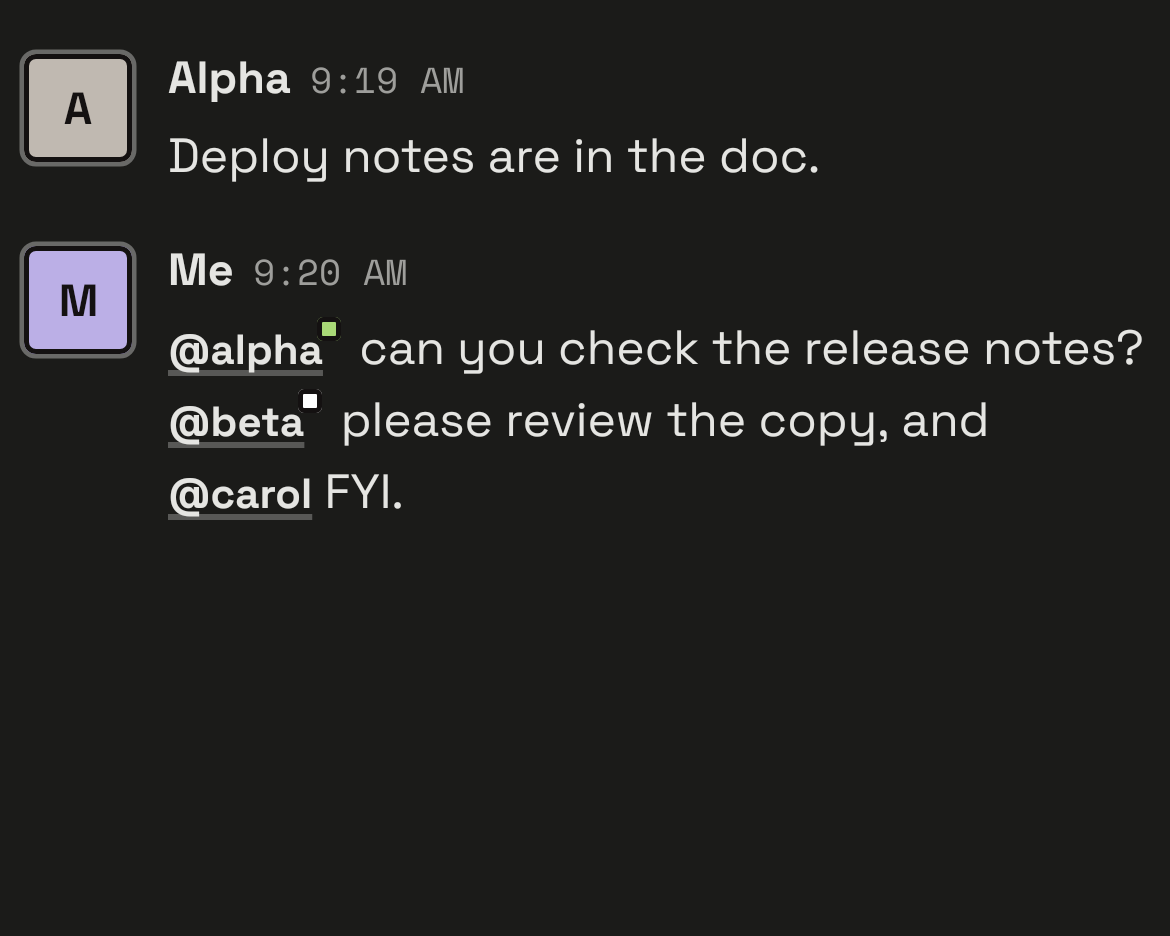
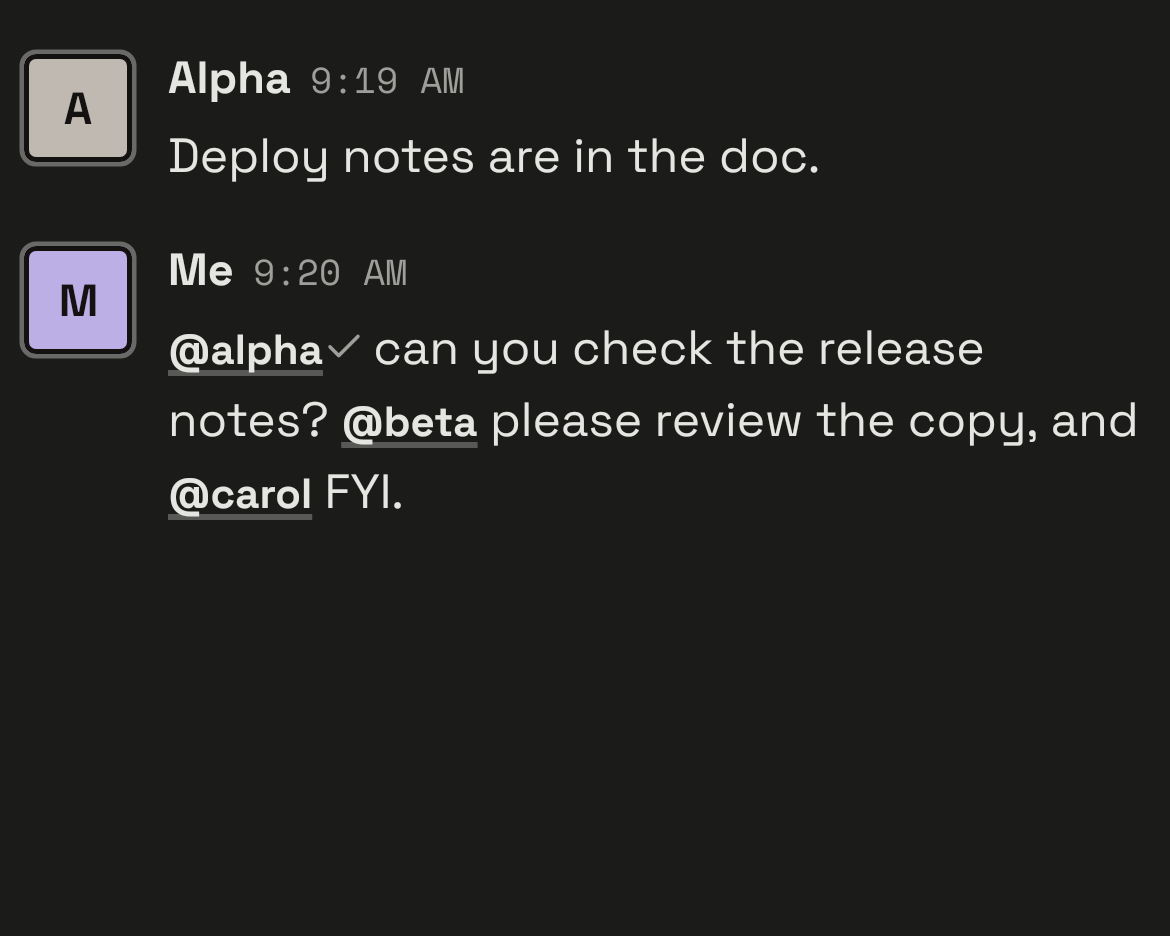
feat(thread): a read mention ends with raft-ui's check, not a lime square
The read receipt on an @agent mention (read_receipts_v0) is now raft-ui's
MessageReferenceReadMark (raft-design #715), as the web does since slock
#10924: a muted Lucide check right after the name once the agent has read
the message, and nothing while it hasn't. The square status light read as
"online" and is gone.

- compose/designsystem: RaftMessageReferenceReadMark and its inline-text
  form. The check is 0.857em of the mention (13.7dp beside the 16sp body),
  foreground-hint, centred on the cap height, its end trimmed by 2/24 so it
  has no space of its own; its box fits inside the line. Goldens
  message_reference_read_mark_{light,dark}, a semantics/size test, README
  row and the hover-card difference.
- compose/shared: the mention read badge uses it. Unread draws nothing and
  takes no width, but still says "Not read yet" to screen readers; read
  says "Read".
- Goldens thread.read-receipts.channel{,.dark} re-recorded. The DM "Read"
  line is unchanged.

Changed region(s): [[0.2769, 0.3408, 0.9846, 0.4028], [0.1231, 0.4028, 0.9846, 0.4957]]

diff --git a/compose/designsystem/src/commonMain/kotlin/build/raft/designsystem/components/RaftMessageReferenceReadMark.kt b/compose/designsystem/src/commonMain/kotlin/build/raft/designsystem/components/RaftMessageReferenceReadMark.kt
@@ -1,0 +1,130 @@
+package build.raft.designsystem.components
+
+import androidx.compose.foundation.Canvas
+import androidx.compose.foundation.layout.Box
+import androidx.compose.foundation.layout.fillMaxSize
+import androidx.compose.foundation.layout.size
+import androidx.compose.foundation.text.InlineTextContent
+import androidx.compose.foundation.text.appendInlineContent
+import androidx.compose.runtime.Composable
+import androidx.compose.ui.Modifier
+import androidx.compose.ui.geometry.Offset
+import androidx.compose.ui.graphics.Color
+import androidx.compose.ui.graphics.StrokeCap
+import androidx.compose.ui.graphics.StrokeJoin
+import androidx.compose.ui.graphics.drawscope.DrawScope
+import androidx.compose.ui.graphics.drawscope.Stroke
+import androidx.compose.ui.graphics.drawscope.scale
+import androidx.compose.ui.graphics.drawscope.translate
+import androidx.compose.ui.semantics.clearAndSetSemantics
+import androidx.compose.ui.semantics.contentDescription
+import androidx.compose.ui.text.AnnotatedString
+import androidx.compose.ui.text.Placeholder
+import androidx.compose.ui.text.PlaceholderVerticalAlign
+import androidx.compose.ui.unit.Dp
+import androidx.compose.ui.unit.dp
+import androidx.compose.ui.unit.em
+import build.raft.designsystem.theme.RaftTheme
+
+/**
+ * raft-ui `MessageReferenceReadMark` (wip, raft-design #715, message-item.md "Read receipts on a
+ * mention"): the read receipt on a mention of an agent. A muted Lucide `check` follows the name,
+ * last inside the mention, once the agent has read the message; until then nothing is drawn.
+ *
+ * - The check is the size of an icon in a reference: 12px beside 14px text, so 0.857em of the
+ *   mention (13.7dp beside the phone's 16sp body), in `foreground-hint`, Lucide's 2-unit stroke.
+ * - No space of its own after the name; its end takes back the extra 2/24 Lucide leaves inside the
+ *   check's box (`-mr-[calc(0.857em*2/24)]`), so the word space comes after it.
+ * - Centred on the letters' cap height (0.7em / 2 above the baseline), not raised like a
+ *   superscript; its box fits inside the line, so the line keeps its height.
+ * - Not a status light: the lime square read as "online" (raft-ui Status, presence lights).
+ *
+ * The check is decorative; [label] is what a screen reader says instead ("Read").
+ */
+object RaftMessageReferenceReadMarkDefaults {
+    /** The check's box, in ems of the mention (12 / 14). */
+    const val SizeEm: Float = 0.857f
+
+    /** The check's centre above the baseline: half the cap height (0.7em / 2). */
+    const val CenterAboveBaselineEm: Float = 0.35f
+
+    /** What the end takes back: Lucide draws the check 3/24 inside its box, other icons 1/24. */
+    const val EndTrimEm: Float = SizeEm * 2f / 24f
+
+    /** The box in a row of its own (`self-center`), beside 14px text. */
+    val Size: Dp = 12.dp
+
+    /** The placeholder in running text: the check's box less [EndTrimEm], sitting on the baseline. */
+    val Placeholder: Placeholder =
+        Placeholder(
+            width = (SizeEm - EndTrimEm).em,
+            height = SizeEm.em,
+            placeholderVerticalAlign = PlaceholderVerticalAlign.AboveBaseline,
+        )
+
+    /**
+     * The same placeholder with no width: nothing is drawn, the line is untouched, and a screen
+     * reader still hears the state (raft-ui says "Not read yet" in the mention's hover card).
+     */
+    val SilentPlaceholder: Placeholder =
+        Placeholder(
+            width = 0.em,
+            height = SizeEm.em,
+            placeholderVerticalAlign = PlaceholderVerticalAlign.AboveBaseline,
+        )
+}
+
+/** The check in a row (raft-ui `self-center`): a [size] box, the check centred in it. */
+@Composable
+fun RaftMessageReferenceReadMark(
+    label: String?,
+    modifier: Modifier = Modifier,
+    size: Dp = RaftMessageReferenceReadMarkDefaults.Size,
+) {
+    val ink = RaftTheme.colors.foregroundHint
+    Canvas(modifier.size(size).readMarkSemantics(label)) { drawReadCheck(ink, this.size.height) }
+}
+
+/**
+ * Inline content for a mention in running text: the check on the cap-height line, in a
+ * [RaftMessageReferenceReadMarkDefaults.Placeholder] box. Append it with
+ * [appendRaftMessageReferenceReadMark] right after the mention's name.
+ */
+fun raftMessageReferenceReadMarkInlineContent(label: @Composable () -> String?): InlineTextContent =
+    InlineTextContent(RaftMessageReferenceReadMarkDefaults.Placeholder) {
+        val ink = RaftTheme.colors.foregroundHint
+        Canvas(Modifier.fillMaxSize().readMarkSemantics(label())) {
+            // The placeholder's bottom is the baseline and its height the check's box (0.857em):
+            // move the check down so its centre sits half the cap height above the baseline.
+            val box = size.height
+            val em = box / RaftMessageReferenceReadMarkDefaults.SizeEm
+            val down = box / 2f - RaftMessageReferenceReadMarkDefaults.CenterAboveBaselineEm * em
+            translate(top = down) { drawReadCheck(ink, box) }
+        }
+    }
+
+/**
+ * Inline content that draws nothing and takes no width, for a mention that has not been read
+ * yet: raft-ui shows nothing then, but the state is still said ([label], "Not read yet").
+ */
+fun raftMessageReferenceSilentReadStateInlineContent(label: @Composable () -> String?): InlineTextContent =
+    InlineTextContent(RaftMessageReferenceReadMarkDefaults.SilentPlaceholder) {
+        Box(Modifier.fillMaxSize().readMarkSemantics(label()))
+    }
+
+/** Appends the inline content [id] (one of the two above) after a mention's name. */
+fun AnnotatedString.Builder.appendRaftMessageReferenceReadMark(id: String) {
+    appendInlineContent(id, "")
+}
+
+private fun Modifier.readMarkSemantics(label: String?): Modifier =
+    clearAndSetSemantics { if (label != null) contentDescription = label }
+
+/** Lucide `check` in a [box] square at the top-left, 2-unit round stroke of the 24 grid. */
+private fun DrawScope.drawReadCheck(ink: Color, box: Float) {
+    val unit = box / 24f
+    scale(unit, unit, pivot = Offset.Zero) {
+        val stroke = Stroke(width = 2f, cap = StrokeCap.Round, join = StrokeJoin.Round)
+        RaftGlyph.Check.parsed.forEach { drawPath(it, ink, style = stroke) }
+    }
+}

diff --git a/compose/shared/src/commonMain/kotlin/build/raft/app/markdown/RaftMarkdownMentionReadBadge.kt b/compose/shared/src/commonMain/kotlin/build/raft/app/markdown/RaftMarkdownMentionReadBadge.kt
@@ -1,25 +1,15 @@
 package build.raft.app.markdown
 
-import androidx.compose.foundation.layout.Box
-import androidx.compose.foundation.layout.fillMaxSize
-import androidx.compose.foundation.layout.offset
 import androidx.compose.foundation.text.InlineTextContent
-import androidx.compose.foundation.text.appendInlineContent
 import androidx.compose.runtime.Composable
 import androidx.compose.runtime.CompositionLocalProvider
 import androidx.compose.runtime.Stable
 import androidx.compose.runtime.compositionLocalOf
-import androidx.compose.ui.Alignment
-import androidx.compose.ui.Modifier
 import androidx.compose.ui.text.AnnotatedString
-import androidx.compose.ui.text.Placeholder
-import androidx.compose.ui.text.PlaceholderVerticalAlign
-import androidx.compose.ui.unit.dp
-import androidx.compose.ui.unit.sp
 import build.raft.app.resources.MR
-import build.raft.designsystem.components.RaftStatusDot
-import build.raft.designsystem.components.RaftStatusSize
-import build.raft.designsystem.tokens.RaftUiPalette
+import build.raft.designsystem.components.appendRaftMessageReferenceReadMark
+import build.raft.designsystem.components.raftMessageReferenceReadMarkInlineContent
+import build.raft.designsystem.components.raftMessageReferenceSilentReadStateInlineContent
 import com.tencent.tmm.kmmresource.compose.stringResource
 
 /**
@@ -50,56 +40,29 @@ private const val MentionReadInlineId = "raft-mention-read:read"
 private const val MentionUnreadInlineId = "raft-mention-read:unread"
 
 /**
- * Web `mr-2`: the badge's own width is reserved after the mention so the next word never collides
- * with it; the badge (`-right-1.5 top-0`) then hangs 2dp back over the mention's top-right corner.
+ * Appends the read state right after a mention, kept on the mention's line by a word joiner:
+ * raft-ui `MessageReferenceReadMark` (raft-design #715), a muted check once the agent has read the
+ * message; nothing visible until then, only the words a screen reader says ("Not read yet").
  */
-private val MentionReadBadgeReserve = 8.dp
-private val MentionReadBadgeOverlap = (-2).dp
-
-/** Appends the badge placeholder right after a mention, kept on the mention's line by a word joiner. */
 internal fun AnnotatedString.Builder.appendRaftMarkdownMentionReadBadge(read: Boolean) {
     append(RaftMarkdownTaskChipWordJoiner)
-    appendInlineContent(if (read) MentionReadInlineId else MentionUnreadInlineId, "")
+    appendRaftMessageReferenceReadMark(if (read) MentionReadInlineId else MentionUnreadInlineId)
 }
 
-/** Both badge placeholders; the colours are mode-invariant (lime / sticker paper, ink edge). */
+/** The check (read) and the silent, zero-width state (not read yet). */
 internal val RaftMarkdownMentionReadInlineContent: Map<String, InlineTextContent> by lazy {
     mapOf(
-        MentionReadInlineId to mentionReadBadgeInlineContent(read = true),
-        MentionUnreadInlineId to mentionReadBadgeInlineContent(read = false),
+        MentionReadInlineId to
+            raftMessageReferenceReadMarkInlineContent { mentionReadLabel(read = true) },
+        MentionUnreadInlineId to
+            raftMessageReferenceSilentReadStateInlineContent { mentionReadLabel(read = false) },
     )
 }
 
-private fun mentionReadBadgeInlineContent(read: Boolean): InlineTextContent =
-    InlineTextContent(
-        placeholder =
-            Placeholder(
-                width = MentionReadBadgeReserve.value.sp,
-                height = RaftStatusSize.Sm.edge.value.sp,
-                placeholderVerticalAlign = PlaceholderVerticalAlign.TextTop,
-            ),
-    ) {
-        RaftMarkdownMentionReadBadge(read)
-    }
-
-/**
- * raft-ui status pixel `sm` (8dp, 2dp corners, ink edge): lime once the agent has read the message,
- * a white sticker until then (web `bg-success` / `bg-sticker-paper`). Labelled "Read" / "Not read
- * yet" like the web tooltip.
- */
+/** "Read" / "Not read yet", as the web mention's hover card says it. */
 @Composable
-internal fun RaftMarkdownMentionReadBadge(read: Boolean) {
-    val label =
-        stringResource(if (read) MR.strings.thread_mention_agent_read else MR.strings.thread_mention_agent_unread)
-    Box(Modifier.fillMaxSize(), contentAlignment = Alignment.TopStart) {
-        RaftStatusDot(
-            modifier = Modifier.offset(x = MentionReadBadgeOverlap),
-            size = RaftStatusSize.Sm,
-            color = if (read) RaftUiPalette.success else RaftUiPalette.stickerPaper,
-            contentDescription = label,
-        )
-    }
-}
+private fun mentionReadLabel(read: Boolean): String =
+    stringResource(if (read) MR.strings.thread_mention_agent_read else MR.strings.thread_mention_agent_unread)
 
 /**
  * Memo revision entries for the badges of one document: the vendor AnnotatedString memo must

diff --git a/compose/designsystem/src/desktopTest/kotlin/build/raft/designsystem/screenshot/DisplayComponentScreenshotTest.kt b/compose/designsystem/src/desktopTest/kotlin/build/raft/designsystem/screenshot/DisplayComponentScreenshotTest.kt
@@ -26,6 +26,10 @@ import androidx.compose.ui.graphics.compositeOver
 import androidx.compose.ui.text.font.FontWeight
 import androidx.compose.ui.unit.Dp
 import androidx.compose.ui.unit.dp
+import androidx.compose.ui.unit.sp
+import androidx.compose.ui.text.withStyle
+import androidx.compose.ui.text.buildAnnotatedString
+import androidx.compose.ui.text.SpanStyle
 import build.raft.designsystem.components.LocalRaftFocusedPreview
 import build.raft.designsystem.components.LocalRaftHoveredPreview
 import build.raft.designsystem.components.LocalRaftPressedPreview
@@ -104,6 +108,10 @@ import build.raft.designsystem.components.RaftMessageImageFit
 import build.raft.designsystem.components.RaftMessageImageFrame
 import build.raft.designsystem.components.RaftMessageImageGallery
 import build.raft.designsystem.components.RaftUnreadCount
+import build.raft.designsystem.components.RaftMessageReferenceReadMark
+import build.raft.designsystem.components.appendRaftMessageReferenceReadMark
+import build.raft.designsystem.components.raftMessageReferenceReadMarkInlineContent
+import build.raft.designsystem.components.raftMessageReferenceSilentReadStateInlineContent
 import build.raft.designsystem.components.raftActiveStickerLook
 import build.raft.designsystem.components.raftInsetFocusOutline
 import build.raft.designsystem.components.raftPressOverlay
@@ -590,6 +598,48 @@ class DisplayComponentScreenshotTest {
                         RaftStatusDot(presence = presence)
                         RaftText(presence.word, style = RaftTheme.typography.footnote)
                     }
+                }
+            }
+        }
+
+    /**
+     * raft-ui MessageReferenceReadMark (raft-design #715): the check after a read mention, on
+     * the desktop body (14) and the phone body (16); an unread mention shows nothing. The last
+     * row puts the check in a row of its own beside 14dp text.
+     */
+    @Test
+    fun messageReferenceReadMark() =
+        capture("message_reference_read_mark") {
+            val inline =
+                mapOf(
+                    "read" to raftMessageReferenceReadMarkInlineContent { "Read" },
+                    "unread" to raftMessageReferenceSilentReadStateInlineContent { "Not read yet" },
+                )
+            val sentence =
+                buildAnnotatedString {
+                    append("Ask ")
+                    withStyle(SpanStyle(fontWeight = FontWeight.Bold)) { append("@Atlas") }
+                    appendRaftMessageReferenceReadMark("read")
+                    append(" or ")
+                    withStyle(SpanStyle(fontWeight = FontWeight.Bold)) { append("@Sage") }
+                    appendRaftMessageReferenceReadMark("unread")
+                    append(", then loop in ")
+                    withStyle(SpanStyle(fontWeight = FontWeight.Bold)) { append("@Noah") }
+                    appendRaftMessageReferenceReadMark("read")
+                    append(".")
+                }
+            Column(Modifier.width(360.dp), verticalArrangement = Arrangement.spacedBy(12.dp)) {
+                listOf(14 to 22, 16 to 24).forEach { (size, line) ->
+                    Caption("${size}/${line}")
+                    RaftText(
+                        sentence,
+                        style = RaftTheme.typography.body.copy(fontSize = size.sp, lineHeight = line.sp),
+                        inlineContent = inline,
+                    )
+                }
+                Row(verticalAlignment = Alignment.CenterVertically) {
+                    RaftText("@Atlas", style = RaftTheme.typography.callout.copy(fontWeight = FontWeight.Bold))
+                    RaftMessageReferenceReadMark(label = "Read")
                 }
             }
         }

diff --git a/compose/designsystem/src/desktopTest/kotlin/build/raft/designsystem/RaftDisplaySemanticsTest.kt b/compose/designsystem/src/desktopTest/kotlin/build/raft/designsystem/RaftDisplaySemanticsTest.kt
@@ -84,6 +84,11 @@ import build.raft.designsystem.theme.RaftTypography
 import build.raft.designsystem.tokens.RaftUiThemeColors
 import kotlin.test.Test
 import kotlin.test.assertEquals
+import build.raft.designsystem.text.RaftText
+import androidx.compose.ui.text.font.FontWeight
+import build.raft.designsystem.components.appendRaftMessageReferenceReadMark
+import build.raft.designsystem.components.raftMessageReferenceReadMarkInlineContent
+import build.raft.designsystem.components.raftMessageReferenceSilentReadStateInlineContent
 import kotlin.test.assertFalse
 import kotlin.test.assertNotNull
 import kotlin.test.assertTrue
@@ -748,5 +753,39 @@ class RaftDisplaySemanticsTest {
             assertEquals(160f, boundsOf("button").width / d, 0.5f)
             assertEquals(27f, boundsOf("avatar").width / d, 0.5f)
             assertEquals(31.5f, (boundsOf("button").right - textBounds(long).right) / d, 0.5f)
+        }
+
+    @Test
+    fun aMentionSaysWhetherItWasReadAndOnlyAReadOneShowsTheCheck() =
+        runComposeUiTest {
+            setContent(
+                themed {
+                    RaftText(
+                        buildAnnotatedString {
+                            withStyle(SpanStyle(fontWeight = FontWeight.Bold)) { append("@Atlas") }
+                            appendRaftMessageReferenceReadMark("read")
+                            append(" and ")
+                            withStyle(SpanStyle(fontWeight = FontWeight.Bold)) { append("@Sage") }
+                            appendRaftMessageReferenceReadMark("unread")
+                        },
+                        style = RaftTheme.typography.body,
+                        modifier = Modifier.testTag("sentence"),
+                        inlineContent =
+                            mapOf(
+                                "read" to raftMessageReferenceReadMarkInlineContent { "Read" },
+                                "unread" to
+                                    raftMessageReferenceSilentReadStateInlineContent { "Not read yet" },
+                            ),
+                    )
+                },
+            )
+            val d = density.density
+            val read = onNodeWithContentDescription("Read", useUnmergedTree = true).fetchSemanticsNode().boundsInRoot
+            val unread = onNodeWithContentDescription("Not read yet", useUnmergedTree = true).fetchSemanticsNode().boundsInRoot
+            // Body 16: the check's box is 0.857em tall, 0.786em wide (its end trimmed by 2/24), to the pixel.
+            assertEquals(16f * 0.857f, read.height / d, 1f)
+            assertEquals(16f * (0.857f - 0.857f * 2f / 24f), read.width / d, 1f)
+            // Unread draws nothing and takes no room on the line.
+            assertEquals(0f, unread.width, 0.01f)
         }
 }

diff --git a/compose/shared/src/androidUnitTest/kotlin/build/raft/app/ThreadReadReceiptsScreenshotTest.kt b/compose/shared/src/androidUnitTest/kotlin/build/raft/app/ThreadReadReceiptsScreenshotTest.kt
@@ -26,9 +26,10 @@ import org.robolectric.annotation.GraphicsMode
 
 /**
  * read_receipts_v0, light and dark, as the web draws them (slock staging dac70954, task #693):
- *  - channel: the viewer's own message @mentions two agents and a human; @Alpha has read it (lime
- *    pixel on the mention's corner), @Beta not yet (white pixel), @carol is a human (no pixel). The
- *    agent's own reply carries nothing, and a channel never shows a "Read" line.
+ *  - channel: the viewer's own message @mentions two agents and a human; @Alpha has read it (raft-ui
+ *    MessageReferenceReadMark, a muted check after the name, raft-design #715), @Beta not yet
+ *    (nothing shown), @carol is a human (nothing). The agent's own reply carries nothing, and a
+ *    channel never shows a "Read" line.
  *  - DM with an agent: the viewer's last message, which the agent's watermark has reached, gets the
  *    right-aligned "Read" line under it; the earlier message does not repeat it.
  * Reports land in `build/reports/home-screenshots/`; verify / record as [RaftRobolectricScreenshot].

diff --git a/compose/designsystem/README.md b/compose/designsystem/README.md
@@ -210,6 +210,7 @@ Other checks:
 | `RaftMessageActionCard`, `RaftMessageActionCardHeaderDescription`, `RaftMessageActionCardNotice`, `RaftMessageActionCardProperties` / `RaftMessageActionCardProperty`, `RaftMessageActionCardHint`, `RaftMessageActionCardScopeList` / `RaftMessageActionCardScope`, `RaftMessageActionCardActions` | MessageActionCard (+ Header, HeaderIcon / Title / Description, Status, CollapseTrigger, Content, Notice, Properties, Hint, ScopeList, Actions) | Done | At most 440dp, `layer-card`, hairline edge, container radius. Header top-aligned: the icon in a 27dp `fill-muted` tile (`zap` by default), the title in subhead bold with an optional line under it (what happened, led by an ink check on a done card, or why the reader can't act; visible while folded), the status word led by its tone's 9dp pixel, the 27dp chevron toggle (only with `onExpandedChange`). The content folds (200ms); a folded card closes 12dp under its header. Notice: `fill-muted` block, never a warning colour. Properties switch on their own width (the card's content): label over value below 384dp (no value minimum or padding, 10dp between pairs), a 88..160dp label column from 384dp, so a card at its 440dp cap has two columns (`twoColumns` overrides). Hint: the agent's reason as a 2dp `line-seam` quote under its label. Permissions scroll past 164dp. Actions bottom-right, 8dp apart, wrapping, an optional note on their left; the confirm is a default (ink-outline) `RaftButton`, never pink |
 | `RaftAppRail`, `RaftAppRailItem` | AppRail (Root, Header, Nav, Item, ItemAttention, Footer; icons-only variant) | Done | The wide layout's leftmost column on `layer-frame`: 56dp plus a full-height `line-seam`; the optional header is a 56dp square (its seam lines up with list and page headers); 40dp items on the control radius, 6dp apart and 8dp from both ends, 20dp icons; selected = the sticker on the frame (`layer-frame-active`, 1.5dp `line-frame-active` edge, `sticker-edge` ring), press `fill-frame-medium`; attention = the 8dp `Status sm` pixel at the icon's corner, never on the selected item and never a count; 44dp touch target over the gaps |
 | `RaftMobileNavItem`, `RaftMobileNavServerPopover` (+ `RaftMobileNavServerPopoverState`), `RaftMobileNavServerPopoverItem`, `RaftMobileNavServerPopoverContent`, `RaftMobileNavServerPopoverList`, `RaftMobileNavServerPopoverGroup`, `RaftMobileNavServerPopoverRow`, `RaftMobileNavServerPopoverDestinations` / `RaftMobileNavServerPopoverDestination`, `RaftMobileNavServerPopoverSeparator` | MobileNav: MobileNavItem, MobileNavServerPopover, MobileNavServerItem, MobileNavServerPopoverContent / List / Group / Row / Destinations / Destination (wip, raft-design #712) | Done | `RaftMobileNavItem`: a phone-bar tab, 56x32 slot (9dp radius; selected = 2dp-ink brand sticker; attention dot (`Status sm`, 8dp) on the slot's corner, never on the selected tab; 11.5/14 label, bold when selected, fixed at any font scale). `RaftMobileNavServerPopoverItem`: the current-server tab, never selected: the server avatar at 22dp in the icon's place, its name truncated, the attention dot centred on the avatar's top-right corner (only "another server has unread"); `fill-pressed` on press, `fill-medium` while the popover is open. A press toggles the popover; a 500ms hold opens it (a move past 10dp cancels; a hold while open does nothing); letting a held press go over a popover row picks it (`raftMobileNavServerPopoverTarget`). One focusable button with a long-press action; `compact` is the wide rail's 48dp cell (27dp avatar). `RaftMobileNavServerPopover`: the layer, 8dp from each side and 8dp above the bar, at most 60% of the screen and below the top safe area; tap-outside and Back are the host's. `RaftMobileNavServerPopoverContent`: the popover surface (a dialog named by `paneTitle`): the list scrolls, the group and the destinations stay in view. Rows sit at the option height (`RaftOptionHeight`, the token `RaftMenuItem` uses; 36dp), a 20dp avatar or 16dp icon, the label, an optional muted mono second line (the `/slug`), a trailing check or count, bold when current; destinations are equal cells, a 20dp icon over a footnote label, with their own attention dot |
+| `RaftMessageReferenceReadMark`, `raftMessageReferenceReadMarkInlineContent`, `raftMessageReferenceSilentReadStateInlineContent`, `appendRaftMessageReferenceReadMark` | MessageReferenceReadMark (`wip`, raft-design #715) | Done | The read receipt on a mention of an agent: Lucide `check` after the name, 0.857em of the mention (12 beside 14, 13.7dp beside the 16sp phone body), `foreground-hint`, centred on the cap height (0.35em above the baseline), its end trimmed by 2/24 so no space of its own; the box fits inside the line. Unread shows nothing (a zero-width placeholder that only says "Not read yet" to screen readers). Not a status light. Screenshot `message_reference_read_mark_*` |
 | `RaftGlyphIcon` | — | Done | The few Lucide icons the components draw (sort: `arrow-up-down`, `arrow-down-up`; jump: `arrow-down`, `arrow-up`) |
 | `RaftText` | — | Done | Text primitive |
 | Tabs drag-reorder, file list row, avatar picker, task card / board lane, toast host | | Not done | Later PRs |
@@ -339,6 +340,10 @@ Checked with `git diff v0.7.1 v0.8.0` in raft-design:
 - **Disabled solid badge keeps its die-cut edge in dark.** badge.tsx (0.7.1 and 0.8.0) removes only
   the inset ink edge when disabled and keeps `ring-sticker-edge`; the Dark mode doc says
   a disabled button is no longer a sticker. The module follows the component source.
+- **Read receipt with no hover card.** raft-ui says "Read" / "Not read yet" in the mention's
+  hover card. A phone has no hover, and tapping a mention opens the agent's whole profile
+  page, not a card for that message, so the app says the state to screen readers on the
+  mention itself (the check's label, or a zero-width "Not read yet") and nowhere else yet.
 - **Hover only from a mouse.** Touch has no hover; pressed draws the web's hover look.
   Buttons and icon buttons also take it under a mouse or trackpad pointer. A
   `RaftTextLink` has no fill to lay an overlay on, so pressed takes its hover look (muted
